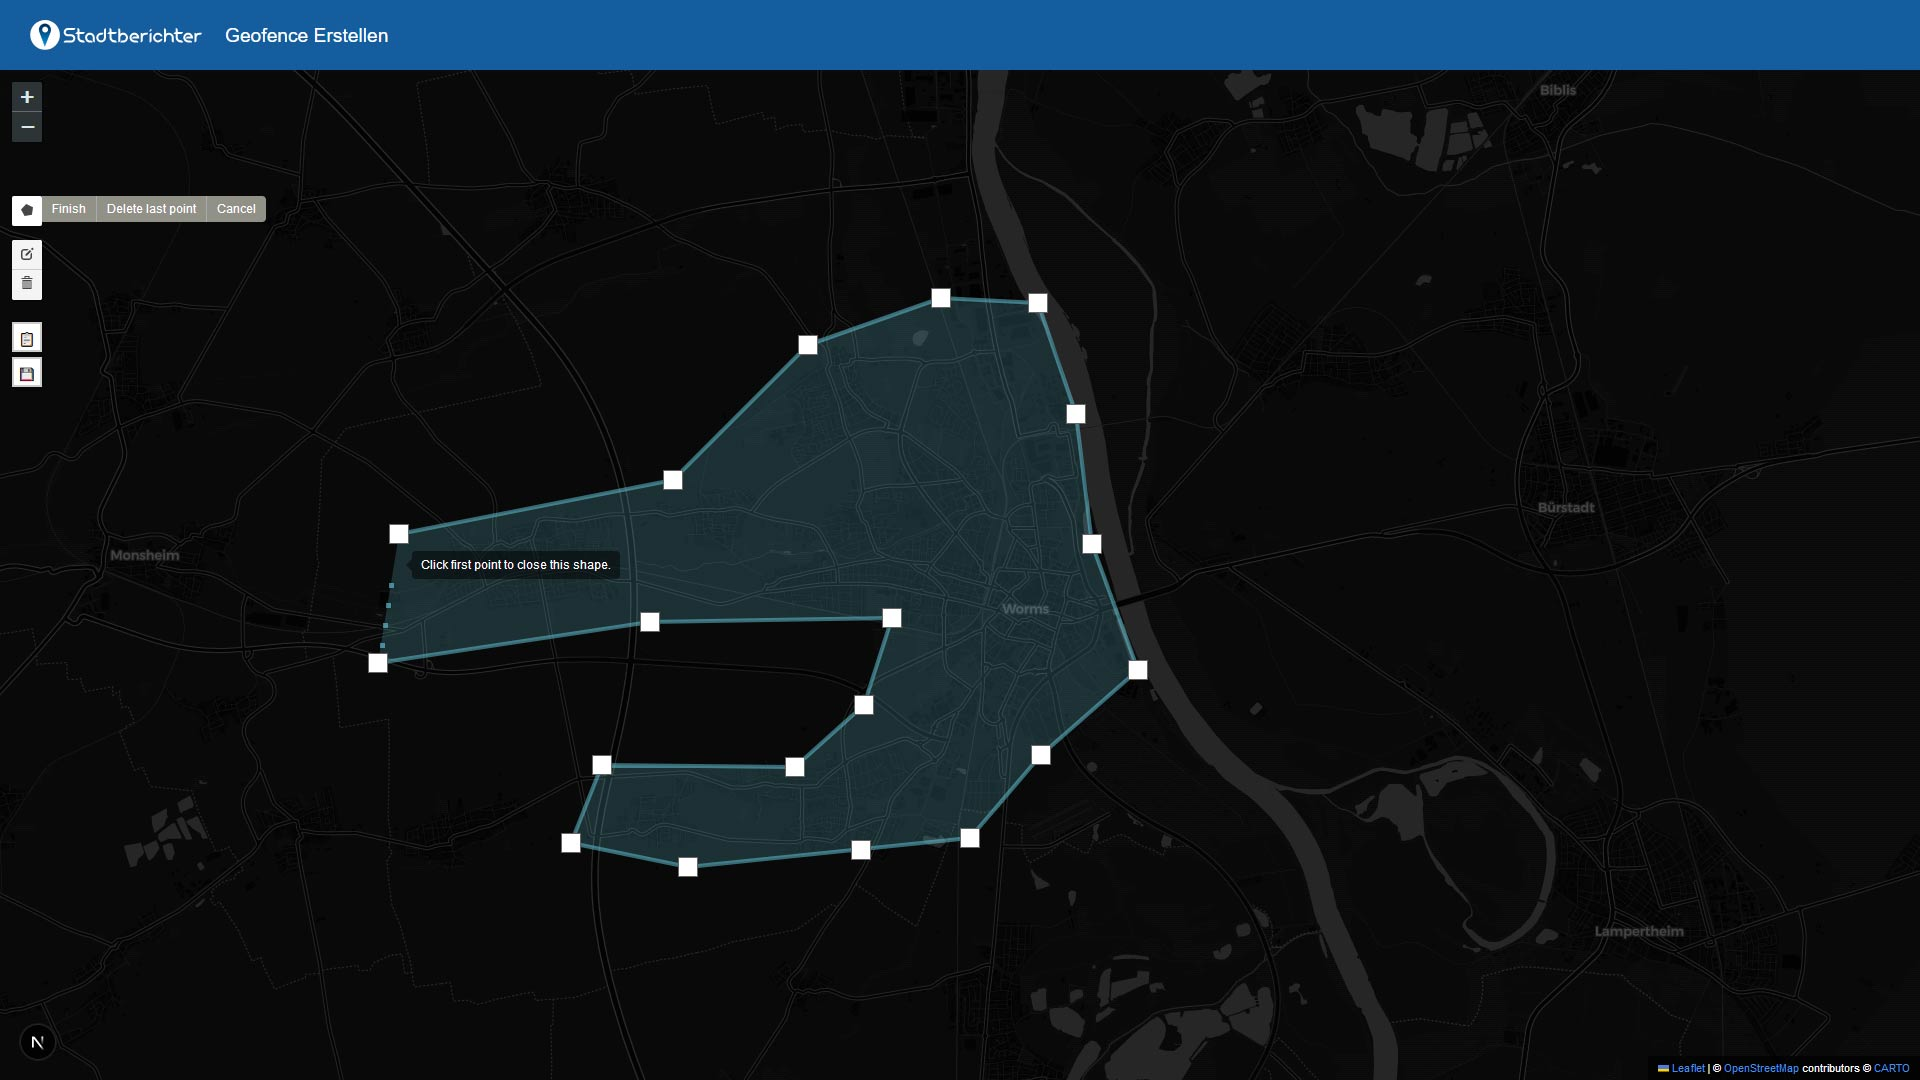
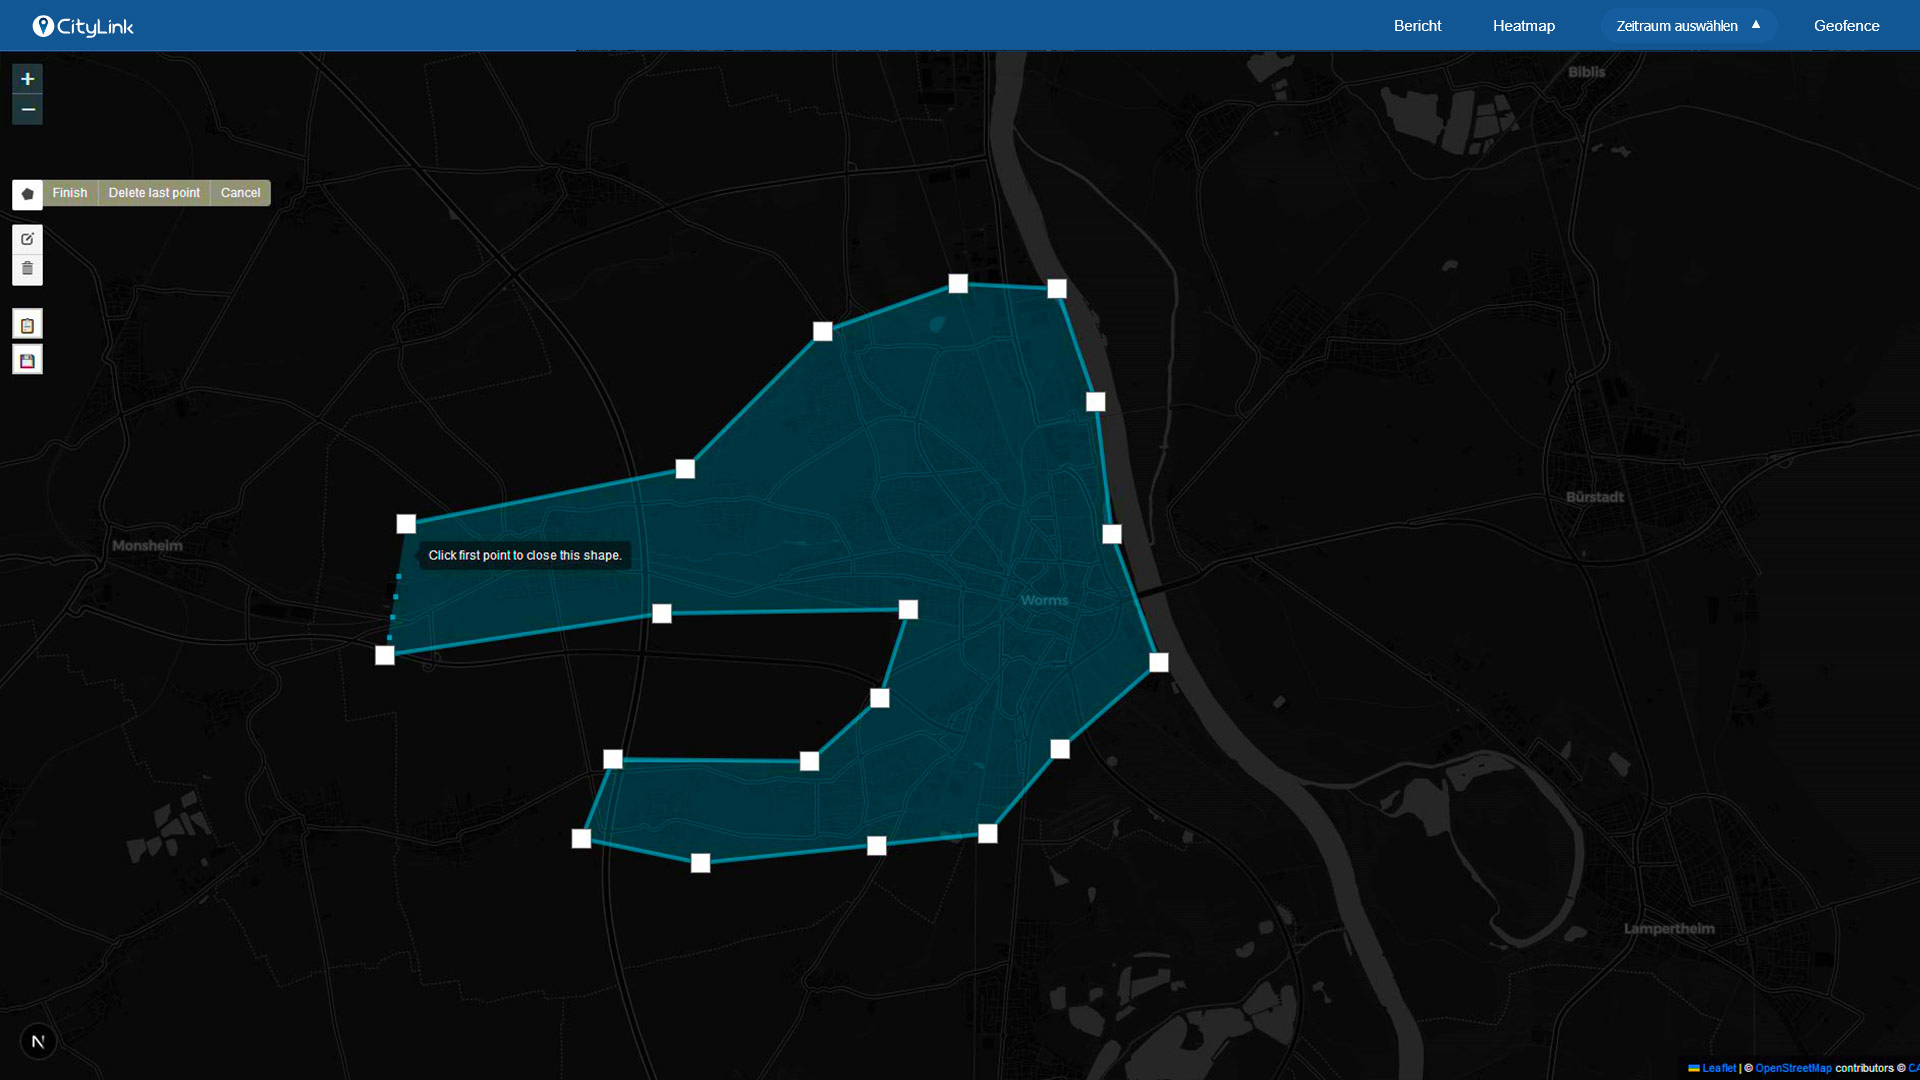
cityLink Info Update

diff --git a/app/blog/[id]/page.js b/app/blog/[id]/page.js
@@ -20,7 +20,7 @@ const posts = {
     date: '2025-08-05',
     content: (
       <>
-        <p>Heres updates to the main stadtberichter app</p>
+        <p>Here are updates to the main stadtberichter app</p>
 
         <ul>
           <li>Added geofencing (restricting reports to a specific geographic area)</li>
@@ -60,6 +60,13 @@ const posts = {
         <p>Same goes for the dashboard. But this would have to be a little more serious than Bumpi. No city official is going to take themselves seriously working with a dashboard app called Bumpi.</p> 
         <p>That&apos;s why we&apos;ll called the backend dashboard - CityLink.</p>
         <p>CityLink is a bit more serious and professional.</p>
+        <br /> 
+        <p>Heres updates to CityLink app</p>
+          <ul>
+            <li>Added Filter-by-Month dropdown</li>
+            <li>Added Report Detail Overlay for more explicit information about reports</li>
+            <li>Thats also a place where more actions can be taken, like adding scores for gamemode maybe.</li>
+          </ul>
       </>
     ),
   },
